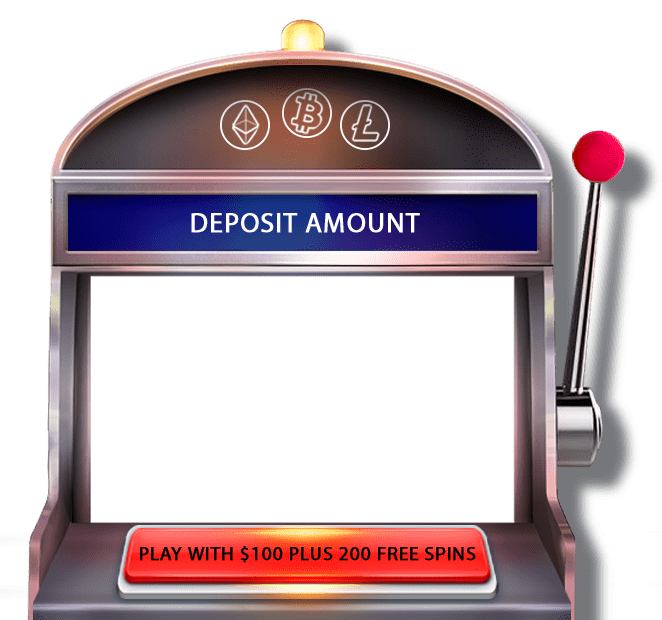
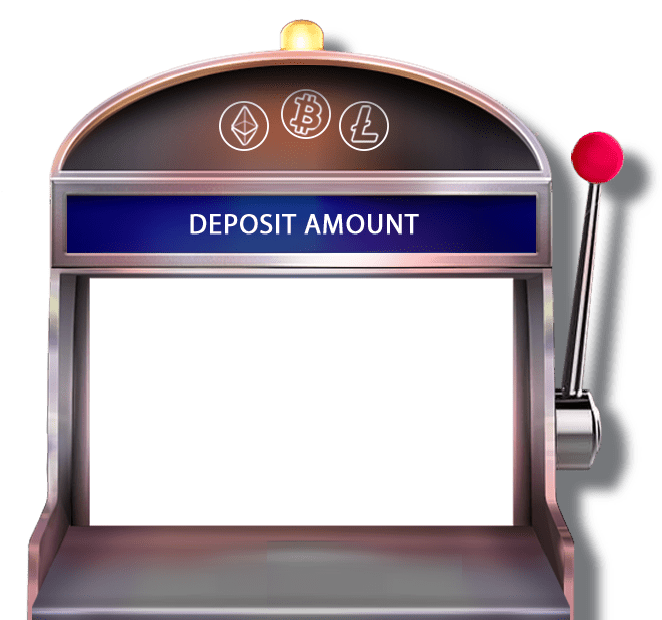
change images in slots machine on home page

diff --git a/components/HomePageComponents/MainBlock/SlotMachineInterface/InputsElements/SumInputs.js b/components/HomePageComponents/MainBlock/SlotMachineInterface/InputsElements/SumInputs.js
@@ -5,6 +5,7 @@ import {useDispatch, useSelector} from "react-redux";
 
 import {useEffect, useState} from "react";
 import {showCurrencySwitcher} from "../../../../../redux/actions/showPopups";
+import {BonusBlock} from "../BonusBlock/BonusBlock";
 
 
 export const SumInputs = () => {
@@ -46,7 +47,6 @@ export const SumInputs = () => {
     <>
       <div className={styles.inputsWrapper}>
         <input onChange={(e) => sumInputChangeHandler(e)} id="sumInputMain"  className={styles.sumInput} maxLength={10} type="number"/>
-        <label htmlFor="sumInputMain" className={styles.sumInputLabel}>{'$'}</label>
         <div
           className={styles.currencyButton}
           onClick={() => currencyButtonClickHAndler()}
@@ -55,24 +55,11 @@ export const SumInputs = () => {
         </div>
       </div>
       <div className={styles.dividerUp}/>
-      <div className={styles.bonusInfoBlockWrapper}>
-        <div className={styles.bonusInfoBlock}>
-          <p>
-            First Deposit Bonus
-          </p>
-          <Link href={'#'}><a>info</a></Link>
-        </div>
-        <p className={styles.bonusInfoText}>
-          100% up to $100 plus 200 free spin...
-        </p>
-        <div className={styles.bonusSwitcher}>
-          <label className={styles.switch}>
-            <input onChange={(e) => checkedInputHandler(e)} className={styles.bonusSwitcherInput} type="checkbox" checked={isChecked} />
-              <span className={`${styles.slider} ${styles.round}`}>
-              </span>
-          </label>
-        </div>
-      </div>
+      <BonusBlock
+        // t={t}
+        isChecked={isChecked}
+        checkedInputHandler={checkedInputHandler}
+      />
       <div className={styles.dividerDown}/>
       <div className={styles.typePayments}>
       </div>

diff --git a/components/MainLayout/MainLayout.js b/components/MainLayout/MainLayout.js
@@ -57,8 +57,6 @@ const MainLayout = ({children, t}) => {
 
   useEffect(() => {
 
-    console.log(isShowModal);
-
     for (let showModalKey in isShowModal) {
       if (
         showModalKey === 'actionForBackButton'
@@ -75,23 +73,23 @@ const MainLayout = ({children, t}) => {
         ||
         showModalKey === 'isShowExitIntentPopup'
       ) {
-        console.log('auto')
+
       } else {
         if (isShowModal[showModalKey] === true) {
-          console.log(isShowModal[showModalKey], showModalKey)
           document.body.style.overflowY = "hidden"
           break;
         } else {
           document.body.style.overflowY = "auto"
+          if (logInShow || registerShow) {
+            document.body.style.overflowY = "hidden"
+          } else {
+            document.body.style.overflowY = "auto"
+          }
         }
       }
     }
 
-    if (logInShow || registerShow) {
-      document.body.style.overflowY = "hidden"
-    } else {
-      document.body.style.overflowY = "auto"
-    }
+
 
 
   }, [isShowModal, registerShow, logInShow])

diff --git a/components/HomePageComponents/MainBlock/index.js b/components/HomePageComponents/MainBlock/index.js
@@ -3,6 +3,7 @@ import useWindowDimensions from "../../../hooks/useWindowDimensions";
 import {SlotMachineInterface} from "./SlotMachineInterface/SlotMachineInterfase";
 
 import Image from "next/image";
+import {SubmitButton} from "./SlotMachineInterface/SubmitButton";
 
 export const MainBlock = () => {
   const {height, width} = useWindowDimensions();
@@ -17,7 +18,8 @@ export const MainBlock = () => {
           <div className={styles.slotsDancer}>
             <div className={styles.slotMachineIng}>
               <SlotMachineInterface />
-              <img  src={`/assets/img/homeImg/slot_machine${width < 1065 ? '-mobile' : ''}.png`}  alt="slot machine"/>
+              <img src={`/assets/img/homeImg/slot_machine${width < 1065 ? '-mobile' : ''}.png`}  alt="slot machine"/>
+              <SubmitButton />
             </div>
             <div className={styles.dancingGirlImg}>
               <img src={`/assets/img/homeImg/dance-girl${width < 1065 ? '-mobile' : ''}.png`}  alt="dancing girl"/>

diff --git a/components/HomePageComponents/MainBlock/SlotMachineInterface/BonusBlock/BonusBlock.js b/components/HomePageComponents/MainBlock/SlotMachineInterface/BonusBlock/BonusBlock.js
@@ -1,0 +1,30 @@
+import styles from "../../../../../styles/HomePage/SumInputs.module.scss";
+import Link from "next/link";
+
+
+export const BonusBlock = ({t, checkedInputHandler, isChecked}) => {
+
+
+
+
+  return (
+    <div className={styles.bonusInfoBlockWrapper}>
+      <div className={styles.bonusInfoBlock}>
+        <p>
+          First Deposit Bonus
+        </p>
+        <Link href={'#'}><a>info</a></Link>
+      </div>
+      <p className={styles.bonusInfoText}>
+        100% up to $100 plus 200 free spin...
+      </p>
+      <div className={styles.bonusSwitcher}>
+        <label className={styles.switch}>
+          <input onChange={(e) => checkedInputHandler(e)} className={styles.bonusSwitcherInput} type="checkbox" checked={isChecked} />
+          <span className={`${styles.slider} ${styles.round}`}>
+              </span>
+        </label>
+      </div>
+    </div>
+  )
+}

diff --git a/components/HomePageComponents/MainBlock/SlotMachineInterface/SubmitButton.js b/components/HomePageComponents/MainBlock/SlotMachineInterface/SubmitButton.js
@@ -1,0 +1,14 @@
+import styles from '../../../../styles/HomePage/SlotMachineInterfase.module.scss'
+
+
+export const SubmitButton = () => {
+
+
+
+  return (
+    <div  className={styles.submitButton}>
+      <span>Play with 300 BTC</span>
+      <img src={'/assets/img/homeImg/buttonSlot.png'} alt="slot-machine button image"/>
+    </div>
+  )
+}

diff --git a/styles/HomePage/SlotMachineInterfase.module.scss b/styles/HomePage/SlotMachineInterfase.module.scss
@@ -11,6 +11,23 @@
   z-index: 2;
 }
 
+.submitButton {
+position: absolute;
+
+  bottom: 8%;
+  left: 12.5%;
+
+  background-color: #ff0e0e;
+
+  width: 32%;
+  height: 10%;
+
+  & img {
+    width: 100%;
+    height: 100%;
+  }
+}
+
 @media screen and (max-width: 1570px) {
   .interfaceWrapper {
     top: 45%;

diff --git a/styles/HomePage/SumInputs.module.scss b/styles/HomePage/SumInputs.module.scss
@@ -14,7 +14,7 @@
   width: 68.6%;
   height: 74%;
 
-  padding-left: 10%;
+  padding-left: 3%;
 
   background-color: #f1f1f1;
   border: 0.95px solid #ff0e0e;

diff --git a/components/HomePageComponents/MainBlock/SlotMachineInterface/SlotMachineInterfase.js b/components/HomePageComponents/MainBlock/SlotMachineInterface/SlotMachineInterfase.js
@@ -1,5 +1,3 @@
-
-
 import styles from '../../../../styles/HomePage/SlotMachineInterfase.module.scss'
 import {SumInputs} from "./InputsElements/SumInputs";
 
